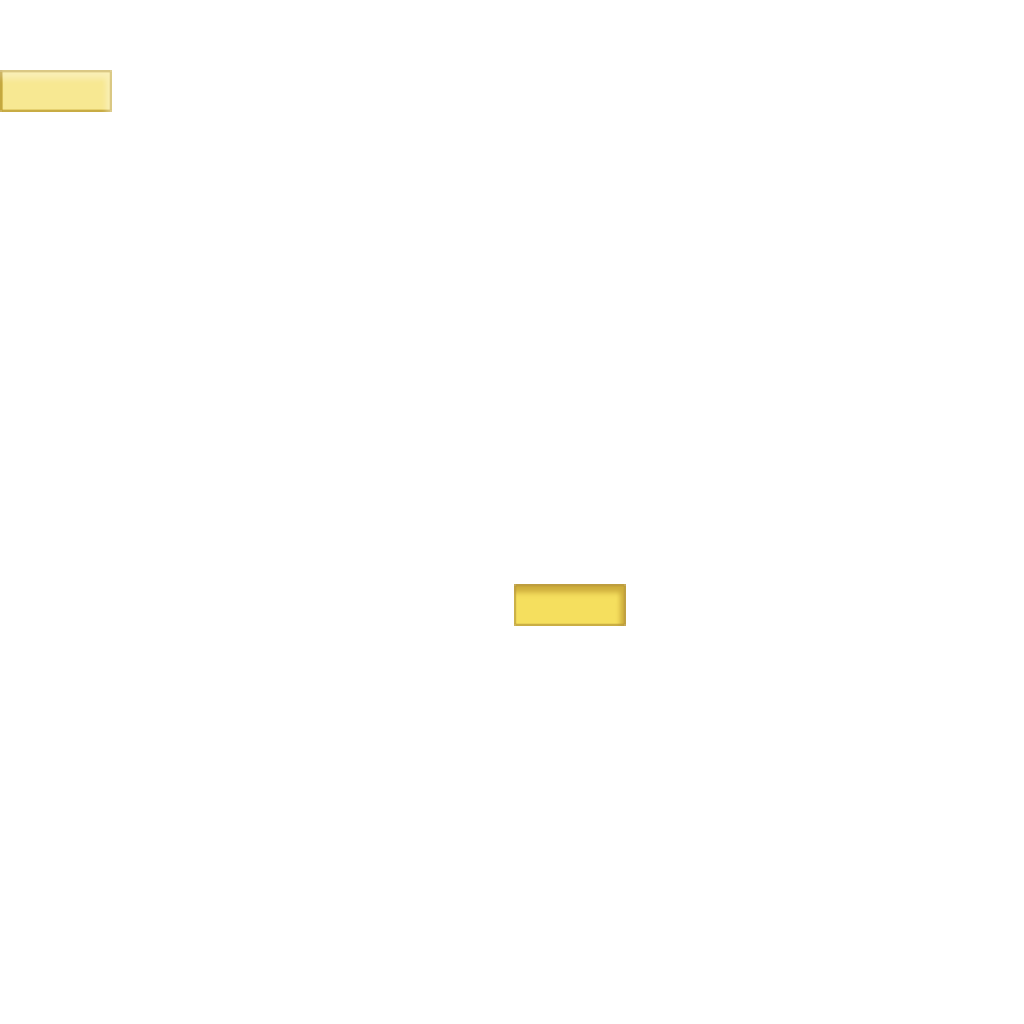
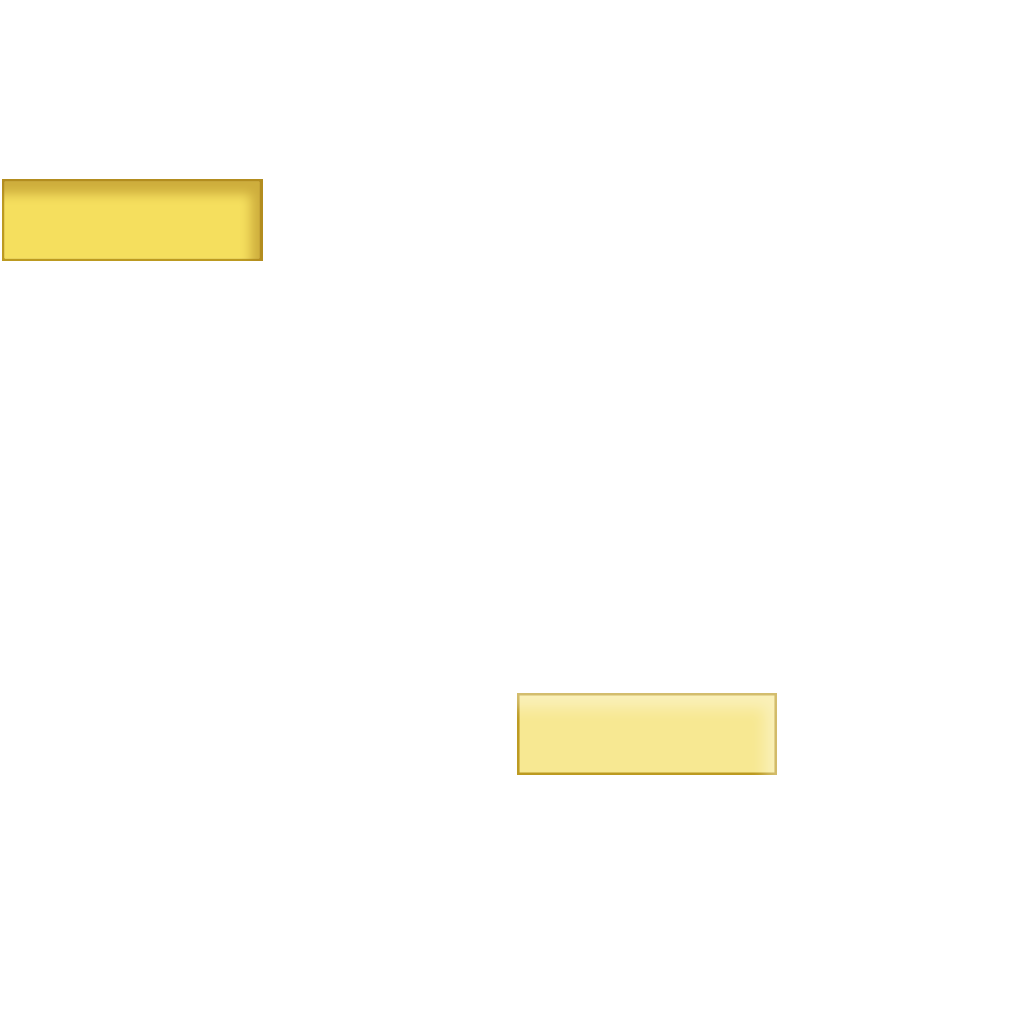
Some changes in font

diff --git a/core/src/com/stormery/herbarium/ui/MainScreenTableContainer.java b/core/src/com/stormery/herbarium/ui/MainScreenTableContainer.java
@@ -172,8 +172,8 @@ RIGHT
         ScrollPane scrollPane = new ScrollPane(tableBookmarkScrollable);
         scrollPane.setOverscroll(false, false);
 
-        tableMain.add(scrollPane).top().left().width(120f).height(535f)
-                .padLeft(21f).padRight(20f).padBottom(5f).padTop(115f);//bookmark
+        tableMain.add(scrollPane).top().left().width(120f).height(555f)
+                .padLeft(21f).padRight(20f).padBottom(5f).padTop(118f);//bookmark
     }
 
     private void tableInnerWithScrollableHerbs() {
